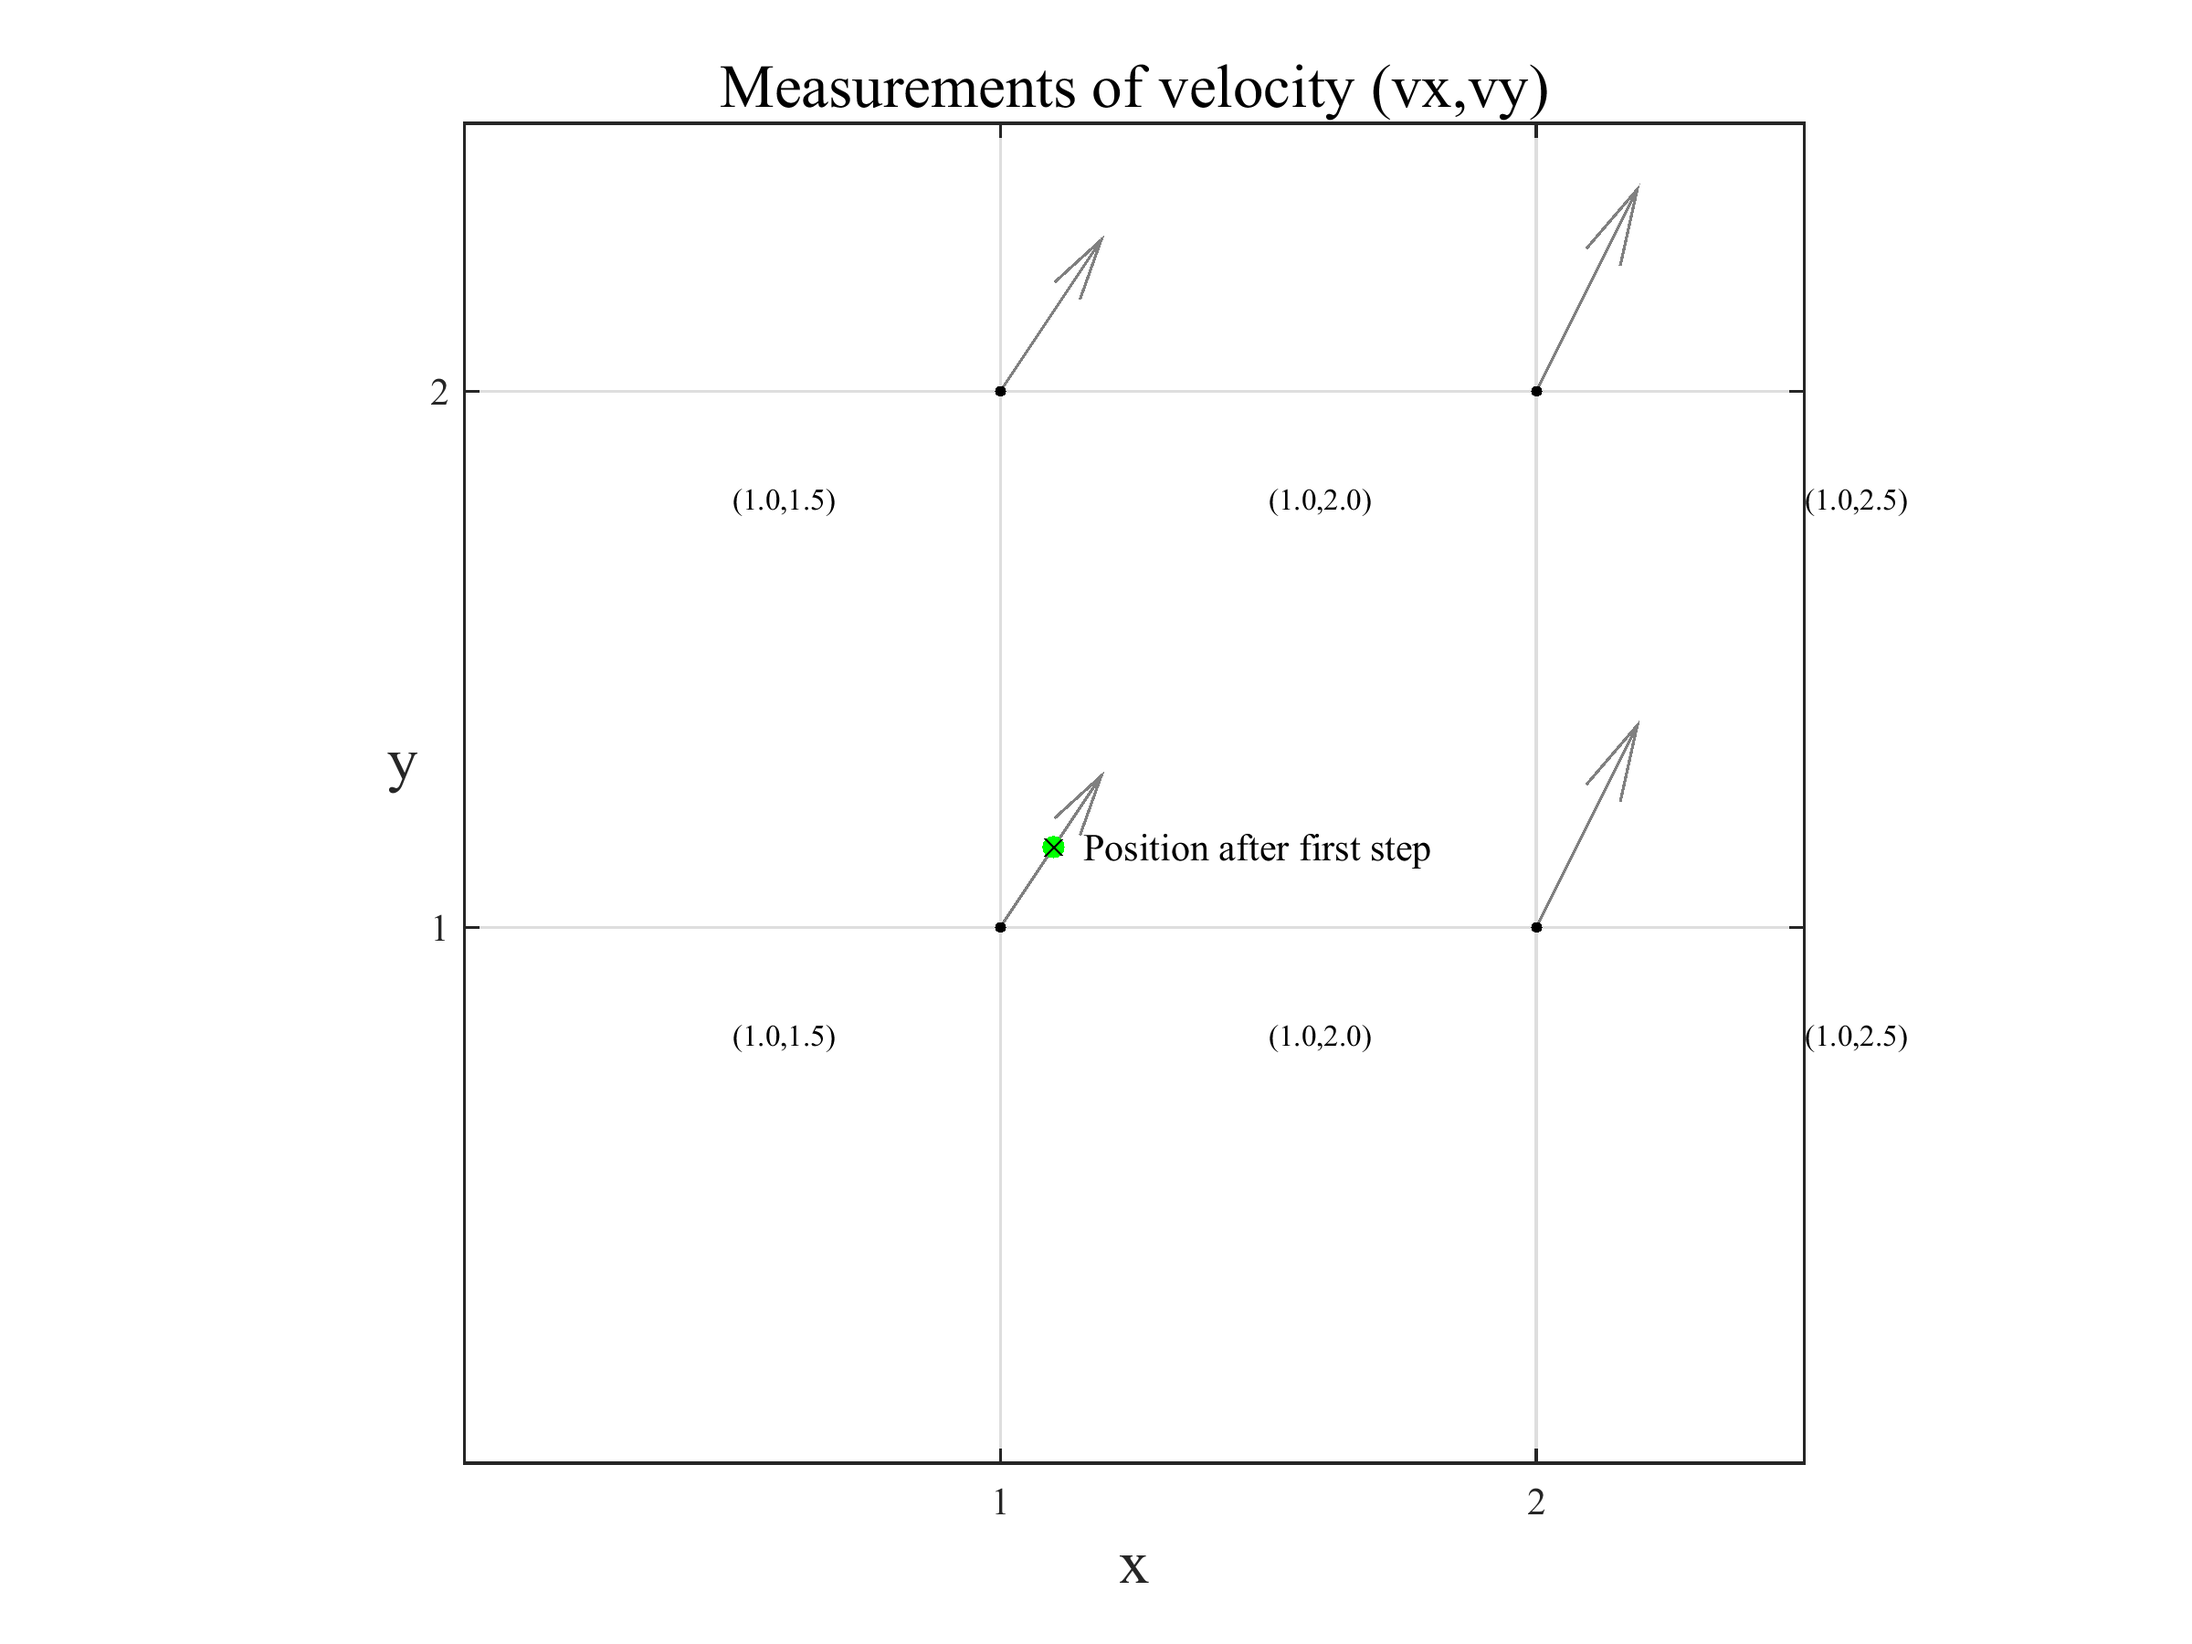
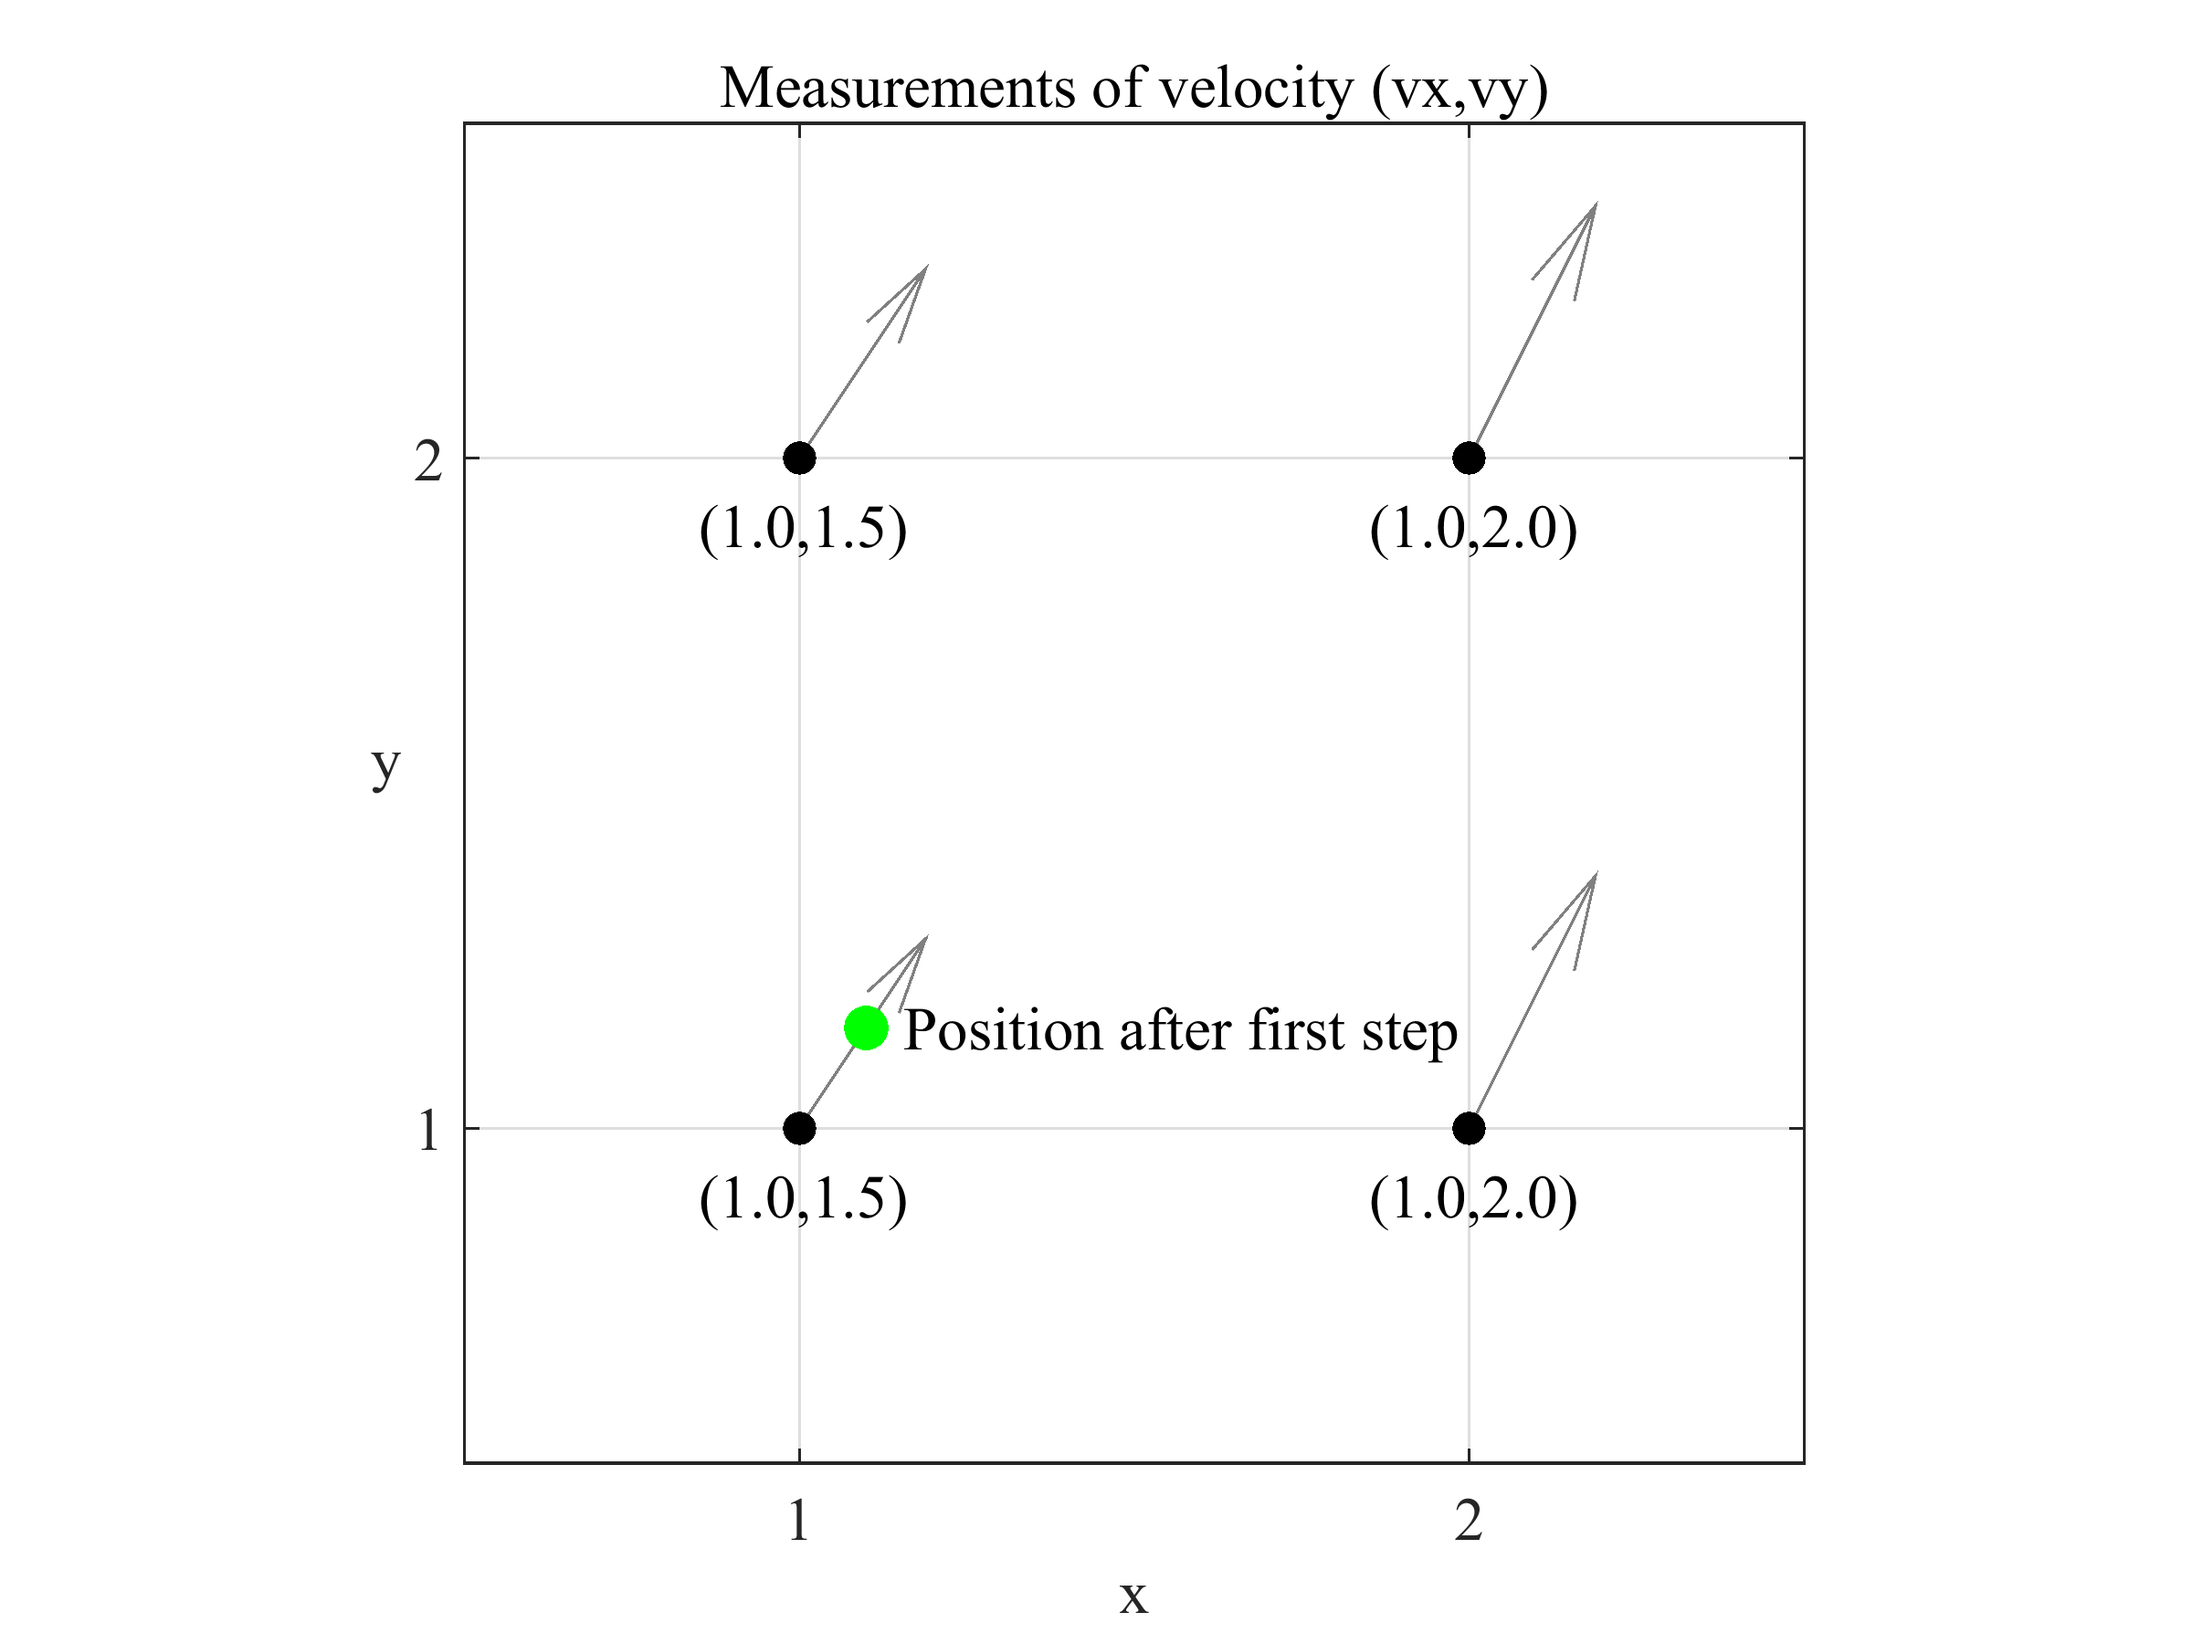
Figure improvements

diff --git a/Streamlines/overview.m b/Streamlines/overview.m
@@ -27,9 +27,9 @@ figure(1);clf;hold on;
     % Add a dot at the vector base and display value.
     for i = 1:10
 	for j = 1:10
-	    text(j-0.5,i-0.2,...
-		 [sprintf('(%.1f,%.1f)',U(i,j),V(i,j))],...
-		 'Color','black','FontSize',8);
+	    th(i,j) = text(j-0.5,i-0.2,...
+			 [sprintf('(%.1f,%.1f)',U(i,j),V(i,j))],...
+			 'Color','black','FontSize',8);
 	    plot(j,i,'k.','MarkerSize',10);
 	end
     end
@@ -88,9 +88,26 @@ for t = 2:Nsteps
     
 end
 
-plot(px(2),py(2),'g.','MarkerSize',20);
-axis([0 2.5 0 2.5]);
-text(px(2)*1.05,py(2),'Position after first step');
+
+% Adjust text position and size for zoom-in figure.
+for i = 1:2
+    for j = 1:2
+	set(th(i,j),'FontSize',16)
+	tp = get(th(i,j),'Position');
+	tp(1) = tp(1) + 0.35;
+	tp(2) = tp(2) + 0.1;
+	set(th(i,j),'Position',tp);
+	plot(i,j,'k.','MarkerSize',30);
+    end
+end
+% Hid other labels
+set(th(1,3),'Visible','Off')
+set(th(2,3),'Visible','Off')
+set(gca,'FontSize',16);
+
+plot(px(2),py(2),'g.','MarkerSize',40);
+axis([0.5 2.5 0.5 2.5]);
+text(px(2)*1.05,py(2),'Position after first step','FontSize',16);
 saveplots('overview_streamline_step_1');
 
 break    
